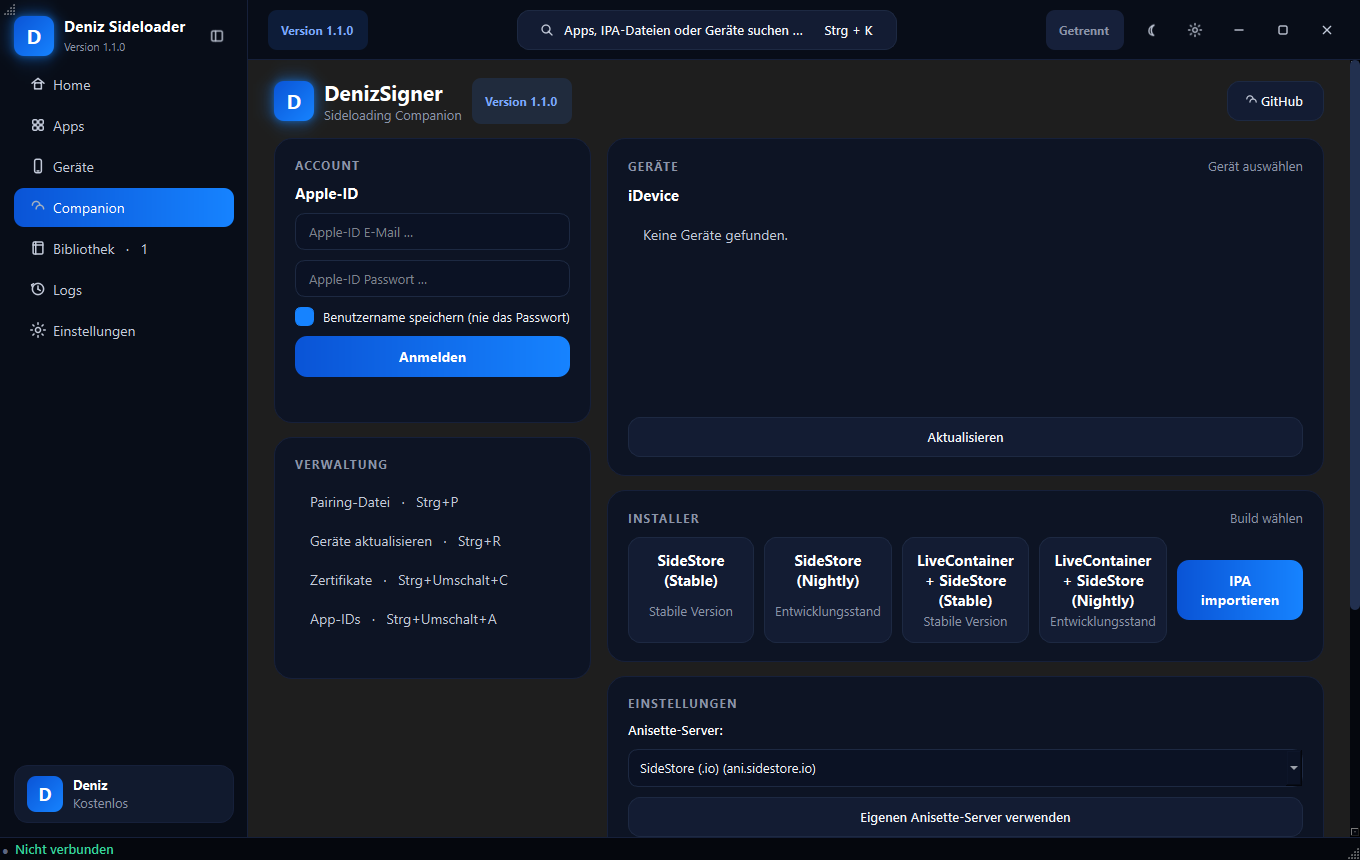
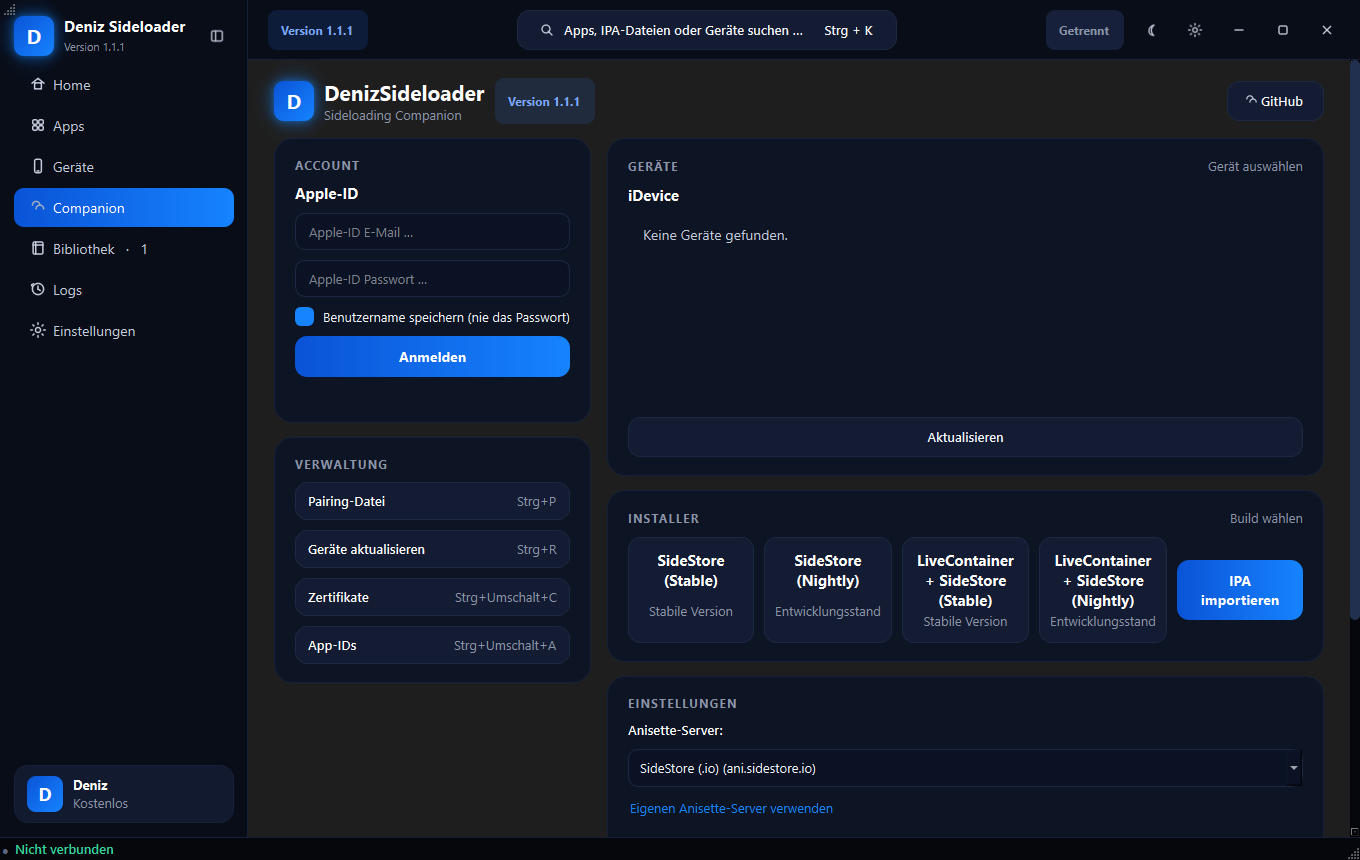
Companion wie Vorlage: Management-Zeilen, Link-Button, DenizSideloader-Header, frische Screenshots

diff --git a/app/ui/pages/companion.py b/app/ui/pages/companion.py
@@ -69,7 +69,7 @@ class CompanionPage(QWidget):
         head = QHBoxLayout()
         head.setSpacing(10)
         head.addWidget(D.logo_badge(40, glow=True))
-        title = QLabel("DenizSigner")
+        title = QLabel("DenizSideloader")
         title.setStyleSheet("font-size: 21px; font-weight: 800;")
         sub = QLabel("Sideloading Companion")
         sub.setObjectName("muted")
@@ -128,15 +128,22 @@ class CompanionPage(QWidget):
         mgmt, ml = D.card()
         self.mgmt_cap = _cap("management")
         ml.addWidget(self.mgmt_cap)
-        self.mgmt = QListWidget()
-        self.mgmt.setObjectName("nav")
-        self.mgmt.itemClicked.connect(self._mgmt_clicked)
-        self.mgmt.setMaximumHeight(178)
-        ml.addWidget(self.mgmt)
+        self.mgmt_rows: list[tuple[D.TileButton, QLabel, QLabel]] = []
+        for idx in range(4):
+            tile = D.TileButton()
+            row = QHBoxLayout(tile)
+            row.setContentsMargins(12, 9, 12, 9)
+            name = QLabel()
+            name.setStyleSheet("font-size: 13px; font-weight: 600;")
+            sc = QLabel()
+            sc.setObjectName("muted")
+            row.addWidget(name, 1)
+            row.addWidget(sc)
+            tile.clicked.connect(lambda _=False, n=idx: self._mgmt_activated(n))
+            ml.addWidget(tile)
+            self.mgmt_rows.append((tile, name, sc))
         left.addWidget(mgmt)
         left.addStretch(1)
-
-        # DEVICES
         dev, dl = D.card()
         dh = QHBoxLayout()
         self.dev_cap = _cap("devices")
@@ -173,9 +180,9 @@ class CompanionPage(QWidget):
         grid.setSpacing(10)
         for inst in INSTALLERS:
             tile = D.TileButton()
-            row = QVBoxLayout(tile)
-            row.setContentsMargins(10, 12, 10, 12)
-            row.setSpacing(2)
+            cell = QVBoxLayout(tile)
+            cell.setContentsMargins(10, 12, 10, 12)
+            cell.setSpacing(2)
             t = QLabel(inst.title)
             t.setObjectName("cardTitle")
             t.setWordWrap(True)
@@ -184,8 +191,8 @@ class CompanionPage(QWidget):
             s.setObjectName("muted")
             s.setWordWrap(True)
             s.setAlignment(Qt.AlignmentFlag.AlignCenter)
-            row.addWidget(t)
-            row.addWidget(s)
+            cell.addWidget(t)
+            cell.addWidget(s)
             tile.clicked.connect(lambda _=False, k=inst.key: self.install_with.emit(k))
             grid.addWidget(tile, 1)
         self.btn_import = QPushButton()
@@ -207,9 +214,10 @@ class CompanionPage(QWidget):
             self.combo_ani.addItem(f"{label} ({host})", host)
         sl.addWidget(self.combo_ani)
         self.btn_custom = QPushButton()
-        self.btn_custom.setObjectName("ghost")
+        self.btn_custom.setObjectName("linkbtn")
+        self.btn_custom.setCursor(Qt.CursorShape.PointingHandCursor)
         self.btn_custom.clicked.connect(self._toggle_custom)
-        sl.addWidget(self.btn_custom)
+        sl.addWidget(self.btn_custom, alignment=Qt.AlignmentFlag.AlignLeft)
         self.edit_custom = QLineEdit()
         self.edit_custom.setPlaceholderText("ani.deinserver.de")
         self.edit_custom.setVisible(False)
@@ -273,9 +281,10 @@ class CompanionPage(QWidget):
         self.cb_save.setText(self._t("save_user"))
         self.btn_login.setText(self._t("login"))
         self.mgmt_cap.setText(self._t("management").upper())
-        self.mgmt.clear()
-        for key, sc in zip(self.MGMT_KEYS, self.MGMT_SHORTCUTS, strict=True):
-            QListWidgetItem(f"{self._t(key)}   ·   {sc}", self.mgmt)
+        mgmt_names = [self._t("mgmt_pairing"), self._t("mgmt_refresh"), self._t("mgmt_certs"), self._t("mgmt_appids")]
+        for (_, name, sc), label, shortcut in zip(self.mgmt_rows, mgmt_names, self.MGMT_SHORTCUTS, strict=True):
+            name.setText(label)
+            sc.setText(shortcut)
         self.dev_cap.setText(self._t("devices").upper())
         self.dev_hint.setText(self._t("pick_device"))
         self.btn_refresh.setText(self._t("refresh"))
@@ -312,8 +321,7 @@ class CompanionPage(QWidget):
         self.login_requested.emit(self.edit_email.text(), self.edit_pass.text(), self.cb_save.isChecked())
         self.edit_pass.clear()
 
-    def _mgmt_clicked(self, item: QListWidgetItem) -> None:
-        idx = self.mgmt.row(item)
+    def _mgmt_activated(self, idx: int) -> None:
         [self.open_pairing.emit, self.refresh_devices.emit, self.open_certificates.emit, self.open_app_ids.emit][idx]()
 
     def _dev_clicked(self, item: QListWidgetItem) -> None:

diff --git a/app/ui/design.py b/app/ui/design.py
@@ -78,6 +78,10 @@ QPushButton#ghost {{ background: #131c33; color: {TEXT}; border: 1px solid {BORD
 QPushButton#ghost:hover {{ background: #1a2542; border: 1px solid #2c3f6b; }}
 QPushButton#iconbtn {{ background: transparent; border: none; border-radius: 9px; padding: 7px; }}
 QPushButton#iconbtn:hover {{ background: #16203a; }}
+QPushButton#linkbtn {{
+  background: transparent; border: none; color: {ACCENT};
+  font-size: 13px; padding: 2px; text-align: left; }}
+QPushButton#linkbtn:hover {{ color: {CYAN}; }}
 QPushButton#danger {{ background: {RED_BG}; color: {RED}; border: 1px solid rgba(255,107,107,0.35);
   border-radius: 10px; padding: 8px 14px; font-weight: 600; }}
 QFrame#tile {{ background: #131c33; border: 1px solid {BORDER}; border-radius: 12px; }}

diff --git a/README.md b/README.md
@@ -7,6 +7,7 @@
 [![Release](https://img.shields.io/github/v/release/dbudakli1402-collab/DenizSideloader)](https://github.com/dbudakli1402-collab/DenizSideloader/releases)
 
 ![App screenshot](assets/screenshot-home.png)
+![Companion screenshot](assets/screenshot-companion.png)
 ![Library screenshot](assets/screenshot-library.png)
 
 ## Features (v1.0.0)
